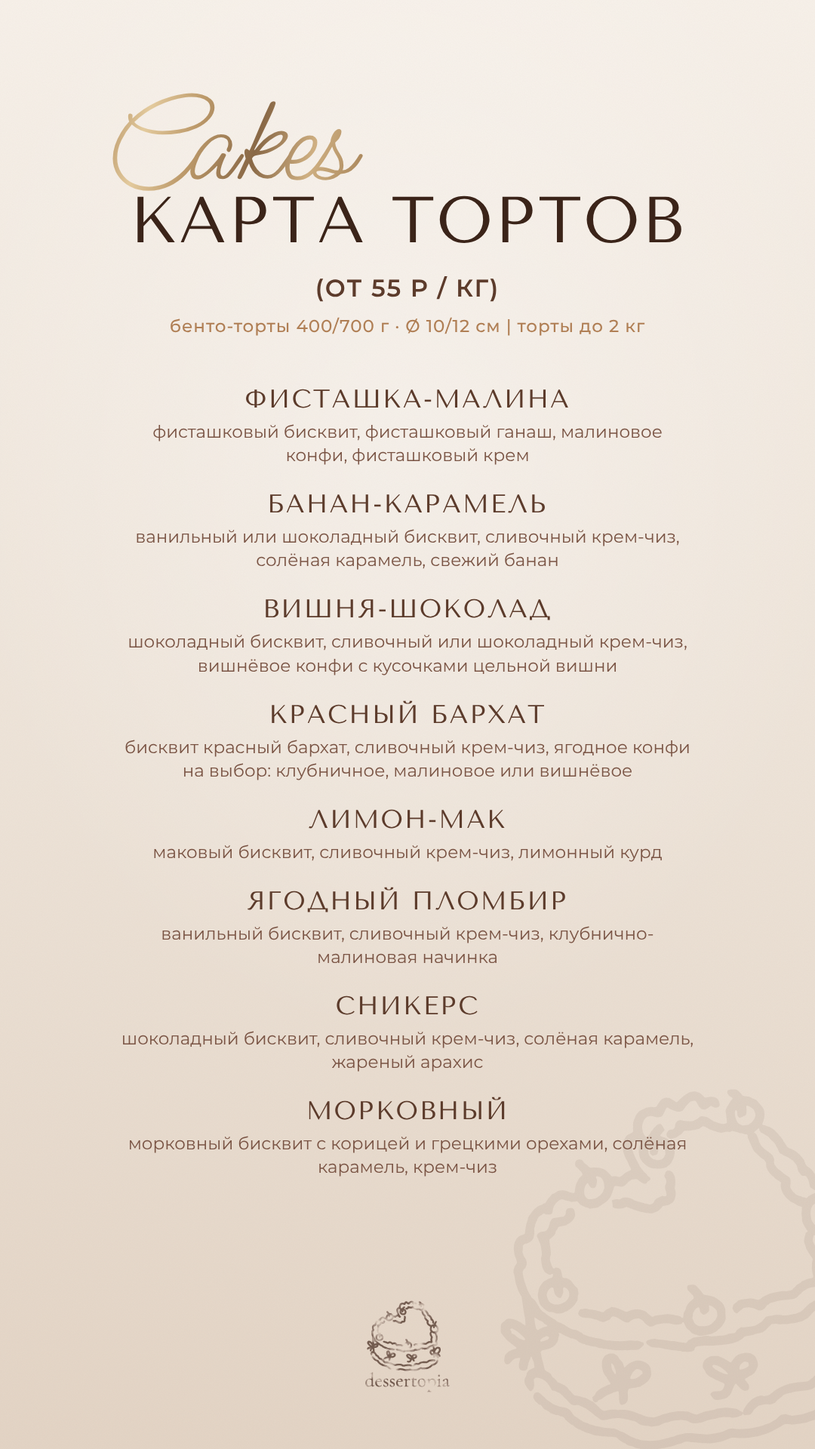
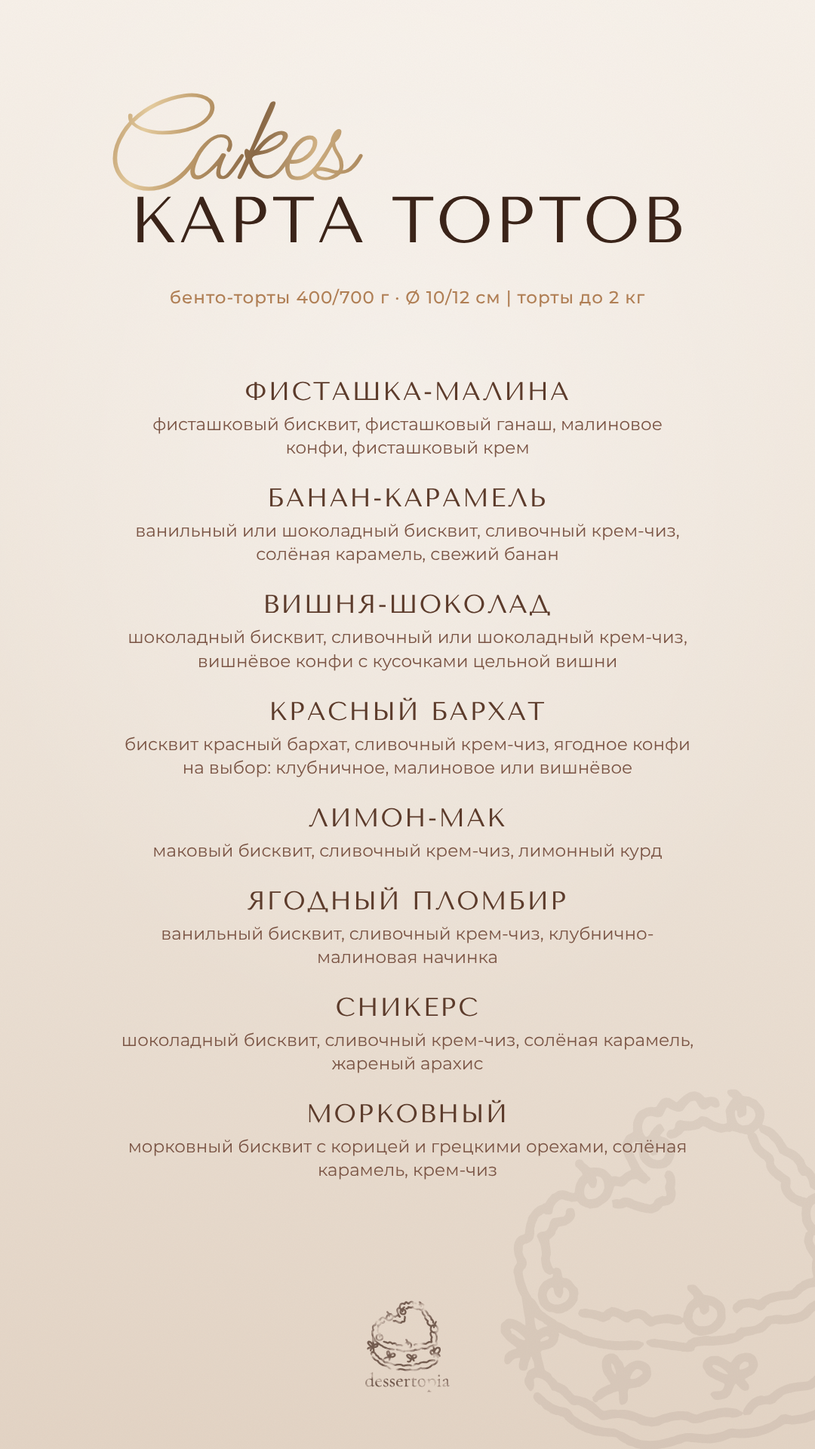
Menu stories: no cake price on the cake list, no pickup address; new Важно
After the client's voice note: the cake list story no longer shows a price
(prices stay on the sizes story and for cupcakes and trifles), and the sizes
story drops the pickup address. Adds «Важно» in the same style: write in
Telegram, what to tell for an order, order 3–4 days ahead.

Claude-Session: https://claude.ai/code/session_01BS48fjdM6CerzjRUCyn4gA

diff --git a/canvas/project/Menu-V1-Vazhno.dc.html b/canvas/project/Menu-V1-Vazhno.dc.html
@@ -1,0 +1,47 @@
+<!doctype html>
+<html lang="ru">
+<head>
+<meta charset="utf-8">
+<title>Важно — как заказать (история)</title>
+<script src="./support.js"></script>
+</head>
+<body>
+<x-dc>
+<helmet>
+<link href="https://fonts.googleapis.com/css2?family=Cormorant+Garamond:ital,wght@0,400;0,500;0,600;1,400;1,500&amp;family=Marck+Script&amp;family=Montserrat:wght@400;500;600&amp;family=Great+Vibes&amp;family=Lobster&amp;family=Playfair+Display+SC&amp;family=Tenor+Sans&amp;family=Playfair+Display:wght@400&amp;family=Bodoni+Moda:opsz,wght@96,400;96,800&amp;family=Oranienbaum&amp;family=Parisienne&amp;family=Ms+Madi&amp;display=swap" rel="stylesheet">
+<style>body{margin:0}</style>
+</helmet>
+<div style="position: relative; width: 1080px; height: 1920px; overflow: hidden; background: linear-gradient(180deg, #F7F1EA 0%, #EDE3D8 55%, #E3D4C5 100%); color: #3B2419">
+<div style="position: absolute; left: 0; top: 0; width: 1080px; height: 1920px; background: radial-gradient(80% 60% at 50% 30%, rgba(255,255,255,0.35) 0%, rgba(255,255,255,0) 70%)"></div>
+<svg aria-hidden="true" width="1080" height="1920" style="position: absolute; left: 0; top: 0"><filter id="paper"><feTurbulence type="fractalNoise" baseFrequency="0.85" numOctaves="3" stitchTiles="stitch"></feTurbulence><feColorMatrix values="0 0 0 0 0.45  0 0 0 0 0.33  0 0 0 0 0.24  0 0 0 0.06 0"></feColorMatrix></filter><rect width="100%" height="100%" filter="url(#paper)"></rect></svg>
+<svg aria-hidden="true" width="0" height="0" style="position: absolute"><filter id="worn" x="0" y="0" width="1" height="1"><feTurbulence type="fractalNoise" baseFrequency="0.06" numOctaves="3" seed="7" result="noise"></feTurbulence><feColorMatrix in="noise" type="matrix" values="0 0 0 0 0  0 0 0 0 0  0 0 0 0 0  0 0 0 -3 2.3" result="keep"></feColorMatrix><feComposite in="SourceGraphic" in2="keep" operator="in"></feComposite></filter></svg>
+<img src="/_blob/7065785caaf3c4a338b728754059f4bd" alt="" style="position: absolute; left: 560px; top: 1400px; width: 720px; opacity: 0.07; transform: rotate(-8deg)">
+<div style="position: absolute; left: 0; right: 0; top: 290px; text-align: center">
+<div style="position: relative; display: inline-block">
+<div style="position: absolute; left: -30px; top: -139px; opacity: 0.9"><span style="display: inline-block; padding: 0.3em 0.45em; margin: -0.3em -0.45em; background: linear-gradient(105deg, #6E4C2C 0%, #A9814F 16%, #E2C796 28%, #B8925E 40%, #7E5A35 56%, #CBA977 70%, #9A7344 86%, #6E4C2C 100%); -webkit-background-clip: text; background-clip: text; color: transparent; white-space: nowrap; font-family: 'Ms Madi', cursive; font-size: 170px; line-height: 1">Important</span></div>
+<div style="position: relative; font-family: 'Tenor Sans', sans-serif; font-size: 96px; letter-spacing: 0.03em; line-height: 1; color: #3B2419">ВАЖНО</div>
+</div></div>
+<div style="position: absolute; left: 0; right: 0; top: 470px; text-align: center; font-family: 'Tenor Sans', sans-serif; font-size: 40px; letter-spacing: 0.06em; color: #3B2419">НАПИШИТЕ МНЕ</div>
+<div style="position: absolute; left: 280px; top: 540px; width: 520px; height: 96px; border-radius: 999px; padding: 3px; box-sizing: border-box; background: linear-gradient(100deg, #B48C58 0%, #EED9B0 18%, #FFF4DC 28%, #D3AF77 44%, #F2DDB4 60%, #B68D57 80%, #E8CF9E 100%); box-shadow: 0 10px 24px rgba(59,36,25,0.22)">
+<div style="width: 100%; height: 100%; border-radius: 999px; background: linear-gradient(180deg, #B39181 0%, #8E6A55 55%, #7A5646 100%); display: flex; align-items: center; justify-content: center; font-family: 'Tenor Sans', sans-serif; font-size: 38px; letter-spacing: 0.06em; color: #F7F1EA">TG  @BMU_GS</div></div>
+<div style="position: absolute; left: 0; right: 0; top: 662px; text-align: center; font-family: 'Montserrat', sans-serif; font-size: 23px; color: #7A5444">ссылка на чат — в шапке профиля</div>
+<div style="position: absolute; left: 0; right: 0; top: 748px; display: flex; align-items: center; justify-content: center; gap: 18px"><div style="width: 120px; height: 1.5px; background: linear-gradient(100deg, #B48C58 0%, #EED9B0 18%, #FFF4DC 28%, #D3AF77 44%, #F2DDB4 60%, #B68D57 80%, #E8CF9E 100%)"></div><svg aria-hidden="true" width="26" height="24" viewBox="-26 -26 52 48"><path d="M0.0 20.0C-13.0 11.0 -25.0 2.0 -24.0 -10.0C-23.0 -19.0 -15.0 -24.0 -8.0 -21.0C-4.0 -19.0 -2.0 -16.0 0.0 -12.0C2.0 -16.0 5.0 -19.0 9.0 -21.0C16.0 -24.0 24.0 -19.0 24.0 -10.0C25.0 2.0 13.0 11.0 0.0 20.0Z" fill="#B07F55"></path></svg><div style="width: 120px; height: 1.5px; background: linear-gradient(100deg, #B48C58 0%, #EED9B0 18%, #FFF4DC 28%, #D3AF77 44%, #F2DDB4 60%, #B68D57 80%, #E8CF9E 100%)"></div></div>
+<div style="position: absolute; left: 0; right: 0; top: 806px; text-align: center; font-family: 'Tenor Sans', sans-serif; font-size: 40px; letter-spacing: 0.06em; color: #3B2419">ИНФОРМАЦИЯ ДЛЯ ЗАКАЗА</div>
+<div style="position: absolute; left: 120px; right: 120px; top: 884px; display: flex; flex-direction: column; align-items: center; gap: 20px; text-align: center"><div style="font-family: 'Montserrat', sans-serif; font-size: 29px; line-height: 1.3; color: #5C3B2B">дата и время</div><div style="font-family: 'Montserrat', sans-serif; font-size: 29px; line-height: 1.3; color: #5C3B2B">вес</div><div style="font-family: 'Montserrat', sans-serif; font-size: 29px; line-height: 1.3; color: #5C3B2B">начинка — выбрать можно<br>в актуальном «Начинки»</div><div style="font-family: 'Montserrat', sans-serif; font-size: 29px; line-height: 1.3; color: #5C3B2B">декор</div><div style="font-family: 'Montserrat', sans-serif; font-size: 29px; line-height: 1.3; color: #5C3B2B">доставка или самовывоз</div></div>
+<div style="position: absolute; left: 0; right: 0; top: 1268px; display: flex; align-items: center; justify-content: center; gap: 18px"><div style="width: 120px; height: 1.5px; background: linear-gradient(100deg, #B48C58 0%, #EED9B0 18%, #FFF4DC 28%, #D3AF77 44%, #F2DDB4 60%, #B68D57 80%, #E8CF9E 100%)"></div><svg aria-hidden="true" width="26" height="24" viewBox="-26 -26 52 48"><path d="M0.0 20.0C-13.0 11.0 -25.0 2.0 -24.0 -10.0C-23.0 -19.0 -15.0 -24.0 -8.0 -21.0C-4.0 -19.0 -2.0 -16.0 0.0 -12.0C2.0 -16.0 5.0 -19.0 9.0 -21.0C16.0 -24.0 24.0 -19.0 24.0 -10.0C25.0 2.0 13.0 11.0 0.0 20.0Z" fill="#B07F55"></path></svg><div style="width: 120px; height: 1.5px; background: linear-gradient(100deg, #B48C58 0%, #EED9B0 18%, #FFF4DC 28%, #D3AF77 44%, #F2DDB4 60%, #B68D57 80%, #E8CF9E 100%)"></div></div>
+<div style="position: absolute; left: 0; right: 0; top: 1326px; text-align: center; font-family: 'Tenor Sans', sans-serif; font-size: 40px; letter-spacing: 0.06em; color: #3B2419">СРОКИ</div>
+<div style="position: absolute; left: 0; right: 0; top: 1396px; text-align: center; font-family: 'Montserrat', sans-serif; font-size: 27px; color: #7A5444">оптимальное время для заказа</div>
+<div style="position: absolute; left: 0; right: 0; top: 1444px; text-align: center"><span style="display: inline-block; padding: 0.3em 0.45em; margin: -0.3em -0.45em; background: linear-gradient(105deg, #6E4C2C 0%, #A9814F 16%, #E2C796 28%, #B8925E 40%, #7E5A35 56%, #CBA977 70%, #9A7344 86%, #6E4C2C 100%); -webkit-background-clip: text; background-clip: text; color: transparent; white-space: nowrap; font-family: 'Tenor Sans', sans-serif; font-size: 78px; line-height: 1">3–4 дня</span></div>
+<div style="position: absolute; left: 0; right: 0; top: 1540px; text-align: center; font-family: 'Montserrat', sans-serif; font-size: 27px; color: #7A5444">до нужной даты</div>
+<img src="/_blob/c983769c94974b17c618d7d6891b1a1d" alt="Dessertopia" style="position: absolute; left: 460px; top: 1690px; width: 160px; opacity: 0.72; filter: url(#worn)">
+</div>
+</x-dc>
+<script type="text/x-dc" data-dc-script data-props='{"$preview":{"width":1080,"height":1920}}'>
+class Component extends DCLogic {
+renderVals() {
+return {};
+}
+}
+</script>
+</body>
+</html>

diff --git a/canvas/project/Menu-S1-Karta-tortov.dc.html b/canvas/project/Menu-S1-Karta-tortov.dc.html
@@ -21,9 +21,8 @@
 <div style="position: absolute; left: -30px; top: -139px; opacity: 0.9"><span style="display: inline-block; padding: 0.3em 0.45em; margin: -0.3em -0.45em; background: linear-gradient(105deg, #6E4C2C 0%, #A9814F 16%, #E2C796 28%, #B8925E 40%, #7E5A35 56%, #CBA977 70%, #9A7344 86%, #6E4C2C 100%); -webkit-background-clip: text; background-clip: text; color: transparent; white-space: nowrap; font-family: 'Ms Madi', cursive; font-size: 170px; line-height: 1">Cakes</span></div>
 <div style="position: relative; font-family: 'Tenor Sans', sans-serif; font-size: 86px; letter-spacing: 0.03em; line-height: 1; color: #3B2419">КАРТА ТОРТОВ</div>
 </div></div>
-<div style="position: absolute; left: 0; right: 0; top: 362px; text-align: center; font-family: 'Montserrat', sans-serif; font-weight: 600; font-size: 32px; letter-spacing: 0.06em; color: #5C3B2B">(ОТ 55 Р / КГ)</div>
-<div style="position: absolute; left: 0; right: 0; top: 418px; text-align: center; font-family: 'Montserrat', sans-serif; font-weight: 500; font-size: 23px; letter-spacing: 0.04em; color: #B07F55">бенто-торты 400/700 г · Ø 10/12 см  |  торты до 2 кг</div>
-<div style="position: absolute; left: 120px; right: 120px; top: 510px; display: flex; flex-direction: column; gap: 30px"><div style="text-align: center">
+<div style="position: absolute; left: 0; right: 0; top: 380px; text-align: center; font-family: 'Montserrat', sans-serif; font-weight: 500; font-size: 23px; letter-spacing: 0.04em; color: #B07F55">бенто-торты 400/700 г · Ø 10/12 см  |  торты до 2 кг</div>
+<div style="position: absolute; left: 120px; right: 120px; top: 500px; display: flex; flex-direction: column; gap: 32px"><div style="text-align: center">
 <div style="font-family: 'Tenor Sans', sans-serif; font-size: 34px; letter-spacing: 0.06em; line-height: 1.15; color: #5C3B2B">ФИСТАШКА-МАЛИНА</div>
 <div style="margin: 8px auto 0; max-width: 760px; font-family: 'Montserrat', sans-serif; font-size: 23px; line-height: 1.35; color: #7A5444">фисташковый бисквит, фисташковый ганаш, малиновое конфи, фисташковый&#160;крем</div></div><div style="text-align: center">
 <div style="font-family: 'Tenor Sans', sans-serif; font-size: 34px; letter-spacing: 0.06em; line-height: 1.15; color: #5C3B2B">БАНАН-КАРАМЕЛЬ</div>

diff --git a/canvas/project/Menu-S3-Razmery.dc.html b/canvas/project/Menu-S3-Razmery.dc.html
@@ -43,7 +43,7 @@
 <div style="position: absolute; left: 150px; right: 150px; top: 1400px; text-align: center; font-family: 'Montserrat', sans-serif; font-size: 24px; line-height: 1.4; color: #7A5444">например, 8 гостей × 200 г = 1,6 кг</div>
 <div style="position: absolute; left: 350px; top: 1484px; width: 380px; height: 92px; border-radius: 999px; padding: 3px; box-sizing: border-box; background: linear-gradient(100deg, #B48C58 0%, #EED9B0 18%, #FFF4DC 28%, #D3AF77 44%, #F2DDB4 60%, #B68D57 80%, #E8CF9E 100%); box-shadow: 0 10px 24px rgba(59,36,25,0.22)">
 <div style="width: 100%; height: 100%; border-radius: 999px; background: linear-gradient(180deg, #B39181 0%, #8E6A55 55%, #7A5646 100%); display: flex; align-items: center; justify-content: center; font-family: 'Montserrat', sans-serif; font-weight: 600; font-size: 32px; letter-spacing: 0.08em; color: #F7F1EA">ОТ 55 Р / КГ</div></div>
-<div style="position: absolute; left: 150px; right: 150px; top: 1610px; text-align: center; font-family: 'Montserrat', sans-serif; font-size: 22px; line-height: 1.4; color: #7A5444">декор оплачивается отдельно<br>самовывоз: м. Аэродромная (Минск Мир)</div>
+<div style="position: absolute; left: 150px; right: 150px; top: 1610px; text-align: center; font-family: 'Montserrat', sans-serif; font-size: 22px; line-height: 1.4; color: #7A5444">декор оплачивается отдельно</div>
 <img src="/_blob/c983769c94974b17c618d7d6891b1a1d" alt="Dessertopia" style="position: absolute; left: 460px; top: 1730px; width: 160px; opacity: 0.72; filter: url(#worn)">
 </div>
 </x-dc>

diff --git a/tools/build_menu.py b/tools/build_menu.py
@@ -273,9 +273,8 @@ def centred_list(items, top, gap, name_size=34):
 def story_cakes():
     inner = f"""{corner_drawing()}
 {heading("КАРТА ТОРТОВ", "Cakes", 250)}
-{sub("(ОТ 55 Р / КГ)", 362)}
-{assortment(418)}
-{centred_list([(f["name"], f["desc"]) for f in CAKES], 510, 30)}
+{assortment(380)}
+{centred_list([(f["name"], f["desc"]) for f in CAKES], 500, 32)}
 {logo(1710)}"""
     return story("Карта тортов (история)", inner)
 
@@ -341,7 +340,7 @@ def story_sizes():
 <div style="position: absolute; left: 150px; right: 150px; top: 1400px; text-align: center; {MONT}; font-size: 24px; line-height: 1.4; color: {MILK}">например, 8 гостей × 200 г = 1,6 кг</div>
 <div style="position: absolute; left: 350px; top: 1484px; width: 380px; height: 92px; border-radius: 999px; padding: 3px; box-sizing: border-box; background: {GILT}; box-shadow: 0 10px 24px rgba(59,36,25,0.22)">
 <div style="width: 100%; height: 100%; border-radius: 999px; background: linear-gradient(180deg, #B39181 0%, {MOCHA} 55%, #7A5646 100%); display: flex; align-items: center; justify-content: center; {MONT}; font-weight: 600; font-size: 32px; letter-spacing: 0.08em; color: {CREAM}">ОТ 55 Р / КГ</div></div>
-<div style="position: absolute; left: 150px; right: 150px; top: 1610px; text-align: center; {MONT}; font-size: 22px; line-height: 1.4; color: {MILK}">декор оплачивается отдельно<br>самовывоз: м. Аэродромная (Минск Мир)</div>
+<div style="position: absolute; left: 150px; right: 150px; top: 1610px; text-align: center; {MONT}; font-size: 22px; line-height: 1.4; color: {MILK}">декор оплачивается отдельно</div>
 {logo(1730)}"""
     return story("Размеры и сколько торта (история)", inner)
 
@@ -360,6 +359,44 @@ def story_desserts():
     return story("Капкейки и трайфлы (история)", inner)
 
 
+def gilt_pill(text, top, width=520):
+    return f"""<div style="position: absolute; left: {540 - width // 2}px; top: {top}px; width: {width}px; height: 96px; border-radius: 999px; padding: 3px; box-sizing: border-box; background: {GILT}; box-shadow: 0 10px 24px rgba(59,36,25,0.22)">
+<div style="width: 100%; height: 100%; border-radius: 999px; background: linear-gradient(180deg, #B39181 0%, {MOCHA} 55%, #7A5646 100%); display: flex; align-items: center; justify-content: center; {TENOR}; font-size: 38px; letter-spacing: 0.06em; color: {CREAM}">{text}</div></div>"""
+
+
+def ornament(top):
+    """A short gold rule with a small heart in the middle, between the sections."""
+    return (f'<div style="position: absolute; left: 0; right: 0; top: {top}px; display: flex; align-items: center; justify-content: center; gap: 18px">'
+            f'<div style="width: 120px; height: 1.5px; background: {GILT}"></div>'
+            f'<svg aria-hidden="true" width="26" height="24" viewBox="-26 -26 52 48"><path d="{heart(0, 0, 1)}" fill="{CARAMEL}"></path></svg>'
+            f'<div style="width: 120px; height: 1.5px; background: {GILT}"></div></div>')
+
+
+def section(text, top):
+    return f'<div style="position: absolute; left: 0; right: 0; top: {top}px; text-align: center; {TENOR}; font-size: 40px; letter-spacing: 0.06em; color: {ESPRESSO}">{text}</div>'
+
+
+def story_important():
+    """«Важно» in the same style: how to write, what to tell, how early to order."""
+    order = ["дата и время", "вес", "начинка — выбрать можно<br>в актуальном «Начинки»", "декор", "доставка или самовывоз"]
+    rows = "".join(f'<div style="{MONT}; font-size: 29px; line-height: 1.3; color: {CHOC}">{t}</div>' for t in order)
+    inner = f"""{corner_drawing()}
+{heading("ВАЖНО", "Important", 290, 96)}
+{section("НАПИШИТЕ МНЕ", 470)}
+{gilt_pill("TG  @BMU_GS", 540)}
+<div style="position: absolute; left: 0; right: 0; top: 662px; text-align: center; {MONT}; font-size: 23px; color: {MILK}">ссылка на чат — в шапке профиля</div>
+{ornament(748)}
+{section("ИНФОРМАЦИЯ ДЛЯ ЗАКАЗА", 806)}
+<div style="position: absolute; left: 120px; right: 120px; top: 884px; display: flex; flex-direction: column; align-items: center; gap: 20px; text-align: center">{rows}</div>
+{ornament(1268)}
+{section("СРОКИ", 1326)}
+<div style="position: absolute; left: 0; right: 0; top: 1396px; text-align: center; {MONT}; font-size: 27px; color: {MILK}">оптимальное время для заказа</div>
+<div style="position: absolute; left: 0; right: 0; top: 1444px; text-align: center">{gold("3–4 дня", f"{TENOR}; font-size: 78px; line-height: 1")}</div>
+<div style="position: absolute; left: 0; right: 0; top: 1540px; text-align: center; {MONT}; font-size: 27px; color: {MILK}">до нужной даты</div>
+{logo(1690)}"""
+    return story("Важно — как заказать (история)", inner)
+
+
 def build_menu():
     out = {"Menu-1-Nachinki": fillings_cover()}
     with_photo = [f for f in CAKES if "circle" in f]
@@ -374,6 +411,7 @@ def build_menu():
     out["Menu-S2-Klassicheskie"] = story_classic()
     out["Menu-S3-Razmery"] = story_sizes()
     out["Menu-S4-Kapkejki-traifly"] = story_desserts()
+    out["Menu-V1-Vazhno"] = story_important()
     for name, html in out.items():
         (PROJECT / f"{name}.dc.html").write_text(html)
     return list(out)

diff --git a/tools/pack_zip.py b/tools/pack_zip.py
@@ -23,7 +23,8 @@ GROUPS = [
     ("2 Обложки актуального", ["Hl-1-Otzyvy", "Hl-2-Raboty", "Hl-3-Nachinki", "Hl-4-Vazhno", "Hl-5-Ceny"]),
     ("2 Обложки актуального/Запасные варианты", ["Hl-3b-Nachinki-karamel", "Hl-3c-Nachinki-flatlay", "Hl-3d-Nachinki-kapkejk",
                                                   "Hl-4b-Vazhno-karamel"]),
-    ("3 Истории в актуальное/Важно", ["Vazhno-1-Kak-zakazat", "Vazhno-2-Chto-napisat", "Vazhno-3-Sroki", "Vazhno-4-Khranenie"]),
+    ("3 Истории в актуальное/Важно — новое (коричневое)", "Menu-V"),
+    ("3 Истории в актуальное/Важно — прежний вариант", ["Vazhno-1-Kak-zakazat", "Vazhno-2-Chto-napisat", "Vazhno-3-Sroki", "Vazhno-4-Khranenie"]),
     ("3 Истории в актуальное/Цены — новое меню (коричневое)", "Menu-S"),
     ("3 Истории в актуальное/Цены — прежний вариант", ["Ceny-1-Torty", "Ceny-2-Bento-traifly"]),
     ("3 Истории в актуальное/Начинки", ["Fill-0-Cakes", "Fill-1-Banan", "Fill-2-Vishnya", "Fill-3-Barkhat", "Fill-4-Limon",
@@ -62,11 +63,11 @@ Dessertopia — сладкая страна чудес
    Ссылка: t.me/BMU_GS
 
 4. АКТУАЛЬНОЕ — папка «3 Истории в актуальное»:
-   Важно — 4 истории; Цены — новое меню (4 истории) или прежний вариант (2); Начинки — общий список,
+   Важно — новое (1 история) или прежний вариант (4); Цены — новое меню (4 истории) или прежний вариант (2); Начинки — общий список,
    по истории на каждую начинку и трайфлы.
    Отзывы и Работы — скриншоты отзывов и фото тортов, фон для них в «6 Заготовки на будущее».
-   Выкладывайте истории и сохраняйте в нужный кружок. В истории «Важно 01» поставьте стикер «Ссылка»
-   на t.me/BMU_GS поверх кнопки, чтобы на неё можно было нажать.
+   Выкладывайте истории и сохраняйте в нужный кружок. В истории «Важно» поставьте стикер «Ссылка»
+   на t.me/BMU_GS поверх кнопки «TG @BMU_GS», чтобы на неё можно было нажать.
    Instagram ставит первым кружок, куда добавили позже, поэтому добавляйте с конца:
    Цены → Важно → Начинки → Работы → Отзывы.
 

diff --git a/README.md b/README.md
@@ -81,6 +81,7 @@
 Сделано по двум образцам заказчицы: несколько оттенков коричневого и бежевого (от эспрессо до крема), надписи с золотым отливом.
 
 - **Карусель для ленты** повторяет образец-карусель, но начинается сразу с обложки «Начинки» (золотая надпись, летящий кусок торта): начинки в разрезе в кругах с золотой каймой; «Торты», «Классические» и «Десерты» в рамке с узором — название рукописным шрифтом, состав мелко под ним; десерты на фото. Сверху на слайдах с кругами и фото — «by Diana» шрифтом Parisienne, как «by …» на образце. Обложки «Меню» и мелких подписей с образца («дизайн постов», ник в Telegram, «меню by …» внизу) нет.
+- **Цены** — только в историях «Размеры» (торты и бенто) и «Капкейки и трайфлы»: в карте тортов и на слайдах цен нет, адреса самовывоза в историях тоже нет — так попросила заказчица. История «Важно» (`Menu-V1`) — как заказать, в том же стиле.
 - **Истории с ценами** сделаны как карточки второго образца, только без фото на фоне: золотая подпись (шрифт Ms Madi) над заголовком (Tenor Sans), списки по центру, линейные иконки тортов, «один гость ≈ 150–200 г», логотип внизу — бледный, будто слегка стёртый.
 - **Что на слайдах** — всё из раздела `menu` в `tools/fillings.json`: 8 начинок тортов, классические торты (молочная девочка, медовик, молочный ломтик, наполеон), 9 вкусов трайфлов, капкейки (черничные; шоколадные и ванильные с начинкой на выбор; банановые; морковные) и строка ассортимента «бенто-торты 400/700 г · Ø 10/12 см | торты до 2 кг». Капкейки — 7 р/шт (`cupcake_price`). Составы начинок и классических тортов — в `desc`.
 
